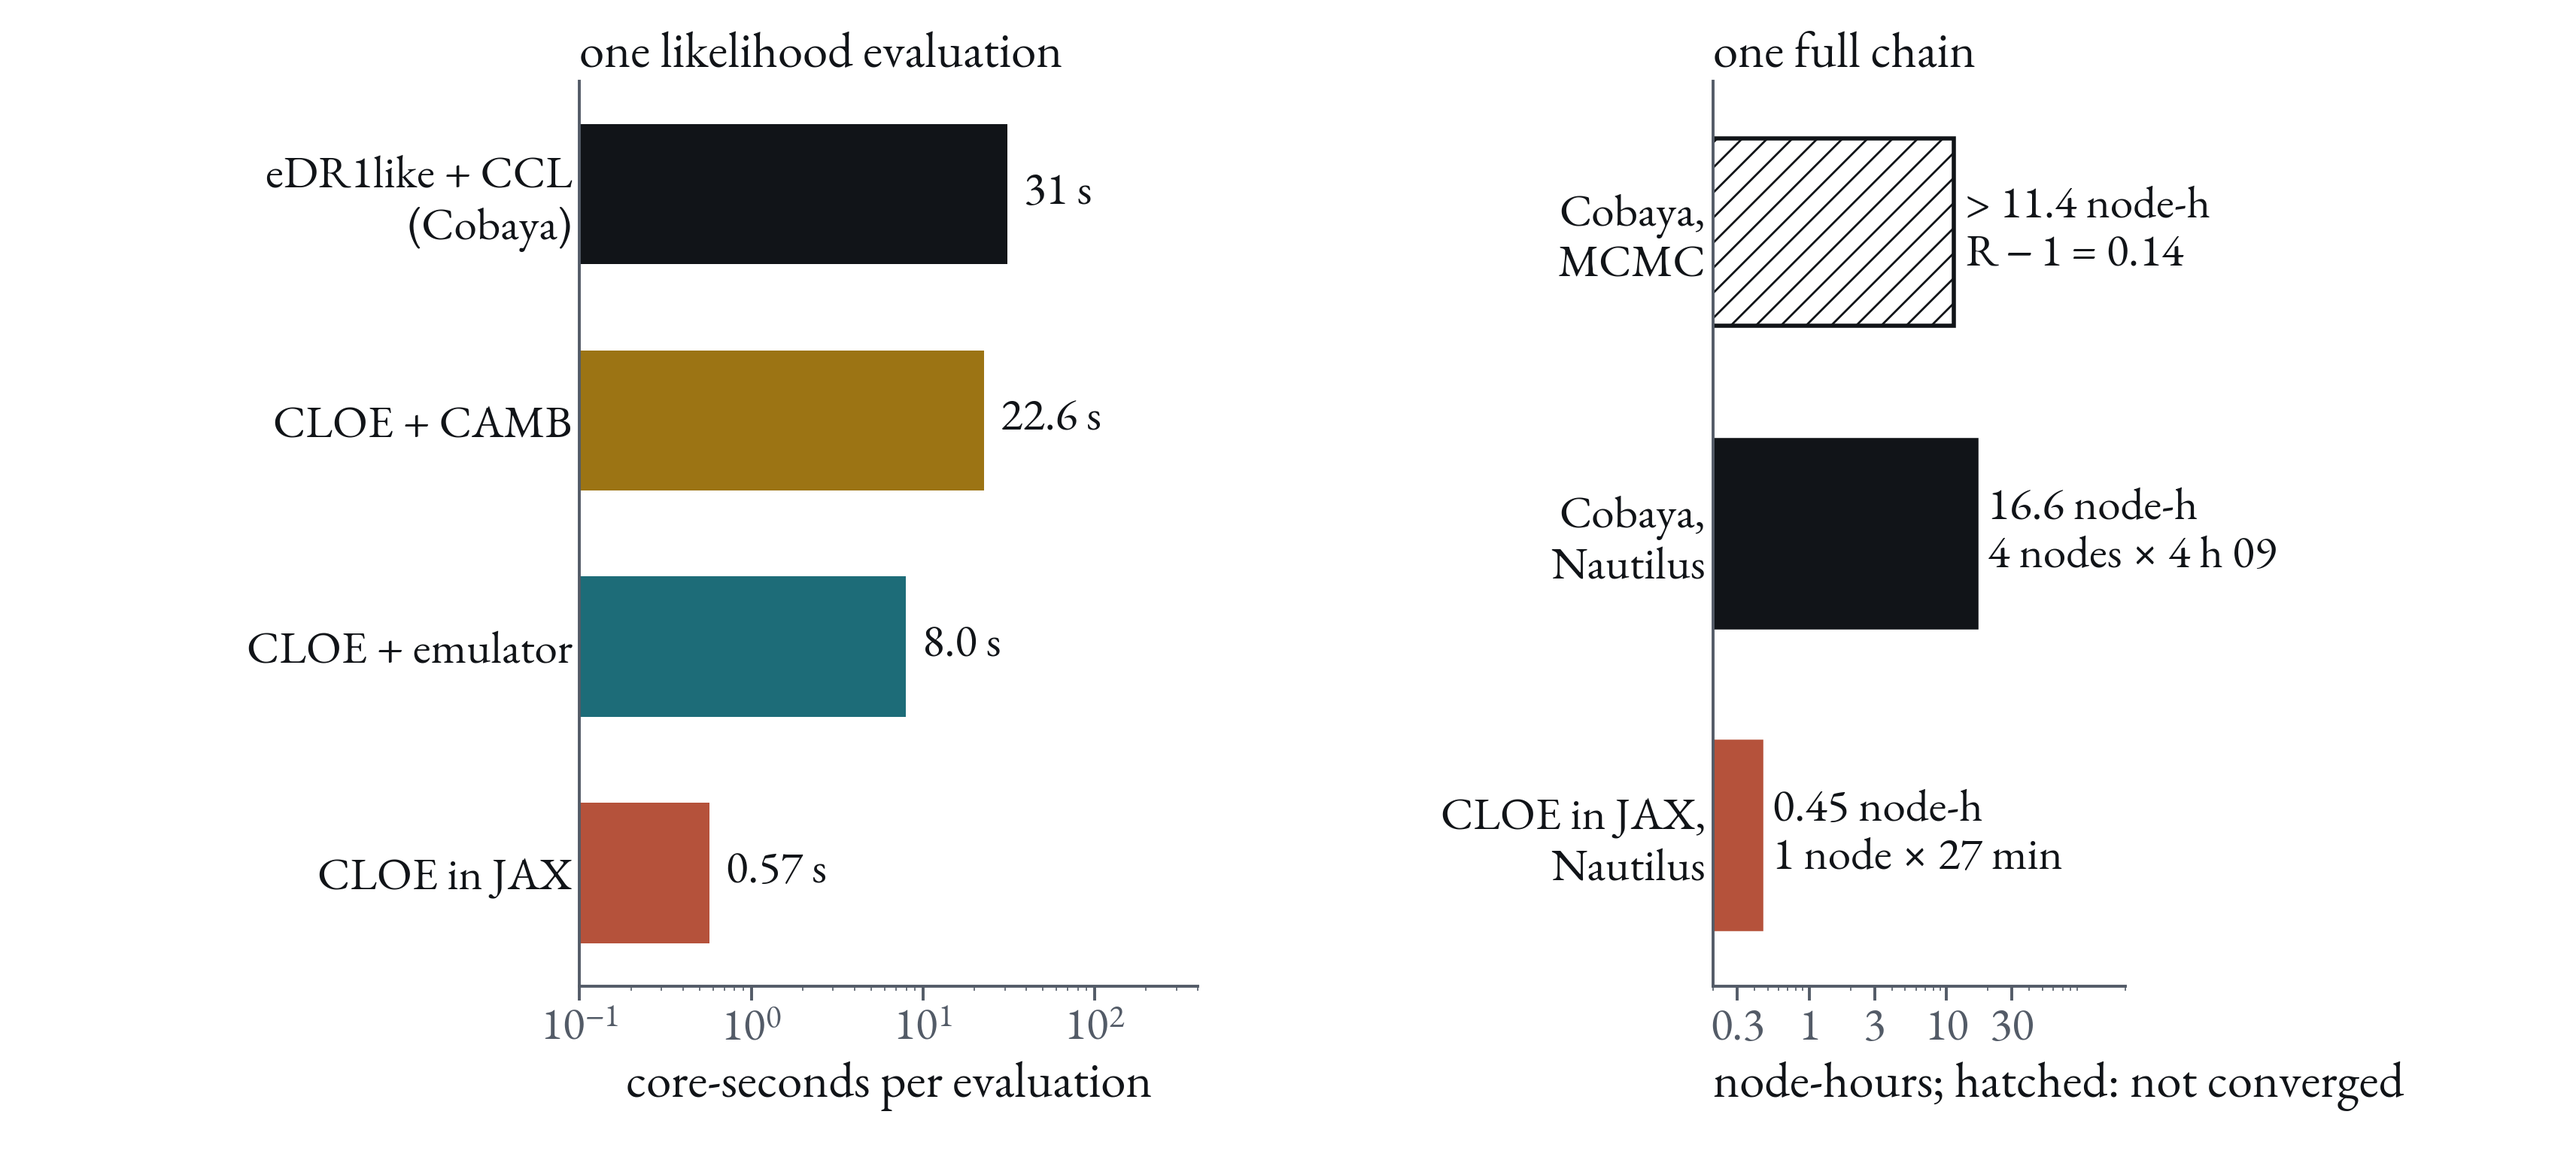
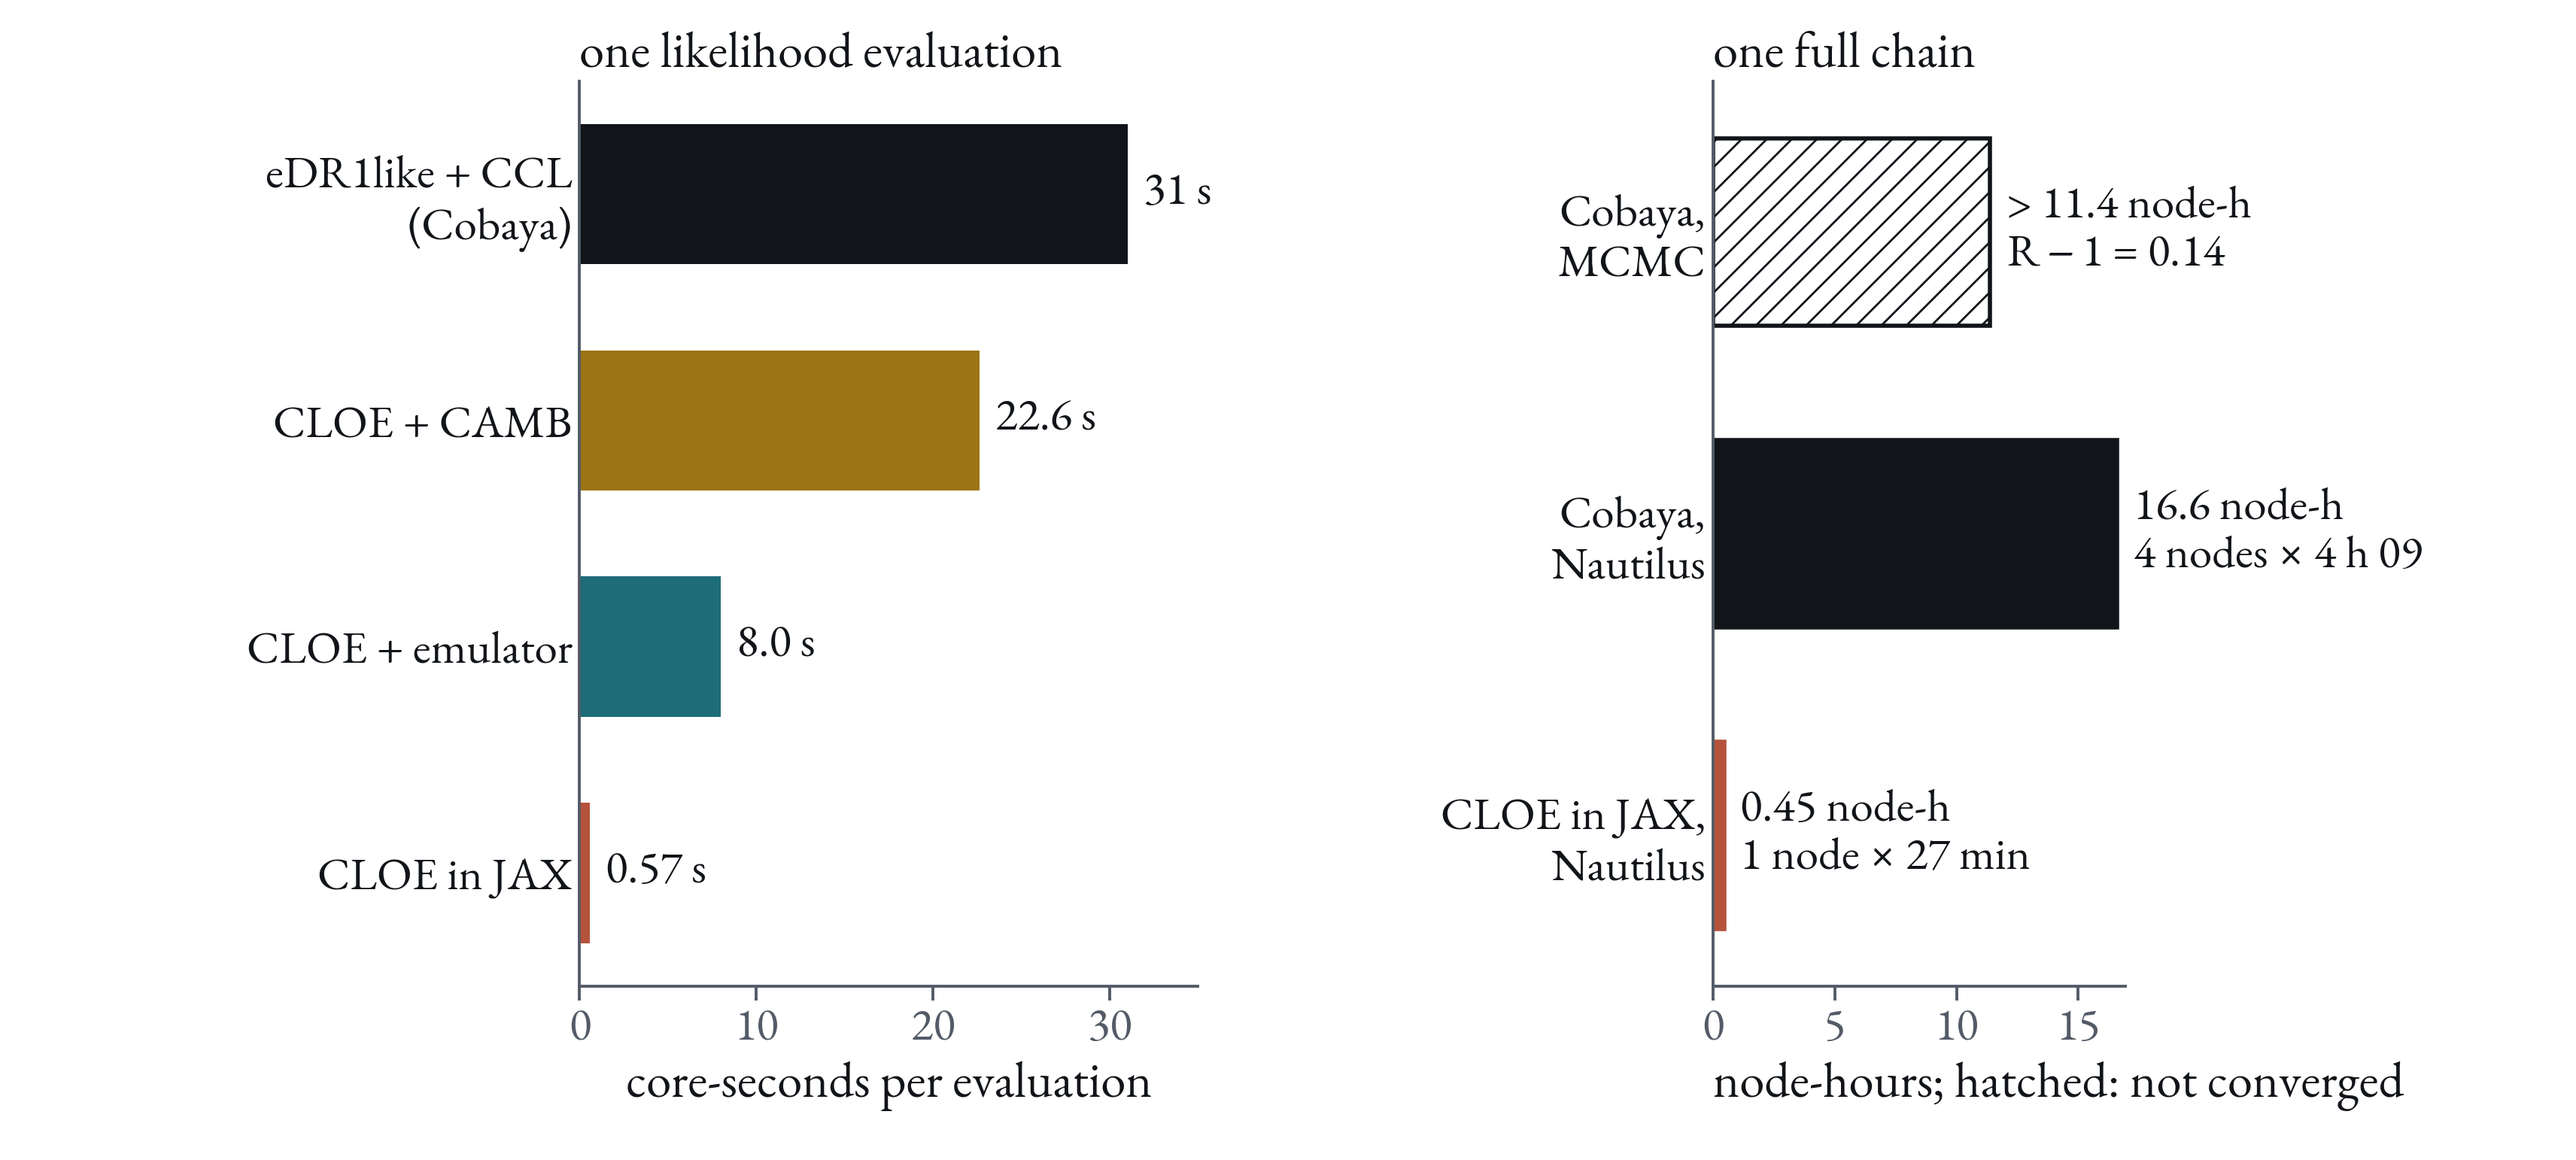
Paris SWG deck: cost slide after the comparison with linear axes; no definite articles in slide titles
Claude-Session: https://claude.ai/code/session_01JK7o9DXfGPZtTDC4WevrY1

diff --git a/2611_Paris_SWG/slides/cloe-anatomy.html b/2611_Paris_SWG/slides/cloe-anatomy.html
@@ -8,7 +8,7 @@
       <li><strong>The loop</strong> — one evaluation goes once around: the sampler proposes a point $\theta$, the theory predicts the data vector $t(\theta)$ there, the likelihood compares it with the data and returns $\ln L$, and the sampler uses it to propose the next point.</li>
       <li><strong>Sampler</strong> — nautilus (nested sampling) draws a point $\theta$ in the 38 sampled parameters of the TR1 data chains (37 on the GLASS mock, where $\log T_\mathrm{AGN}$ is fixed) and receives $\ln L$.</li>
       <li><strong>Likelihood</strong> — Gaussian: $\ln L = -\tfrac12 (d - t)^\mathsf{T} C^{-1} (d - t)$, with $d$ the measured bandpowers and $C$ the production Gaussian + SSC covariance.</li>
-      <li><strong>Theory</strong> — the theory vector $t(\theta)$, in three pieces. The background is the geometry: the expansion rate $H(z)$ and the distances $\chi(z)$ that follow from it. $P(k, z)$ is the structure: how strongly matter is clustered at each scale and each time (CAMB with HMCode, or the emulator). The Limber projection turns the two into what is seen on the sky: for each pair of tracers, an integral along the line of sight, so also back through time, of $P(k, z)$ weighted by where each tracer's signal comes from (the redshift distribution for positions, the lensing efficiency for shear and κ). The result is $C_\ell$, then passed through the bandpower windows.</li>
+      <li><strong>Theory</strong> — the theory vector $t(\theta)$, in three pieces. The background is the geometry: the expansion rate $H(z)$ and the distances $\chi(z)$ that follow from it. $P(k, z)$ is the structure: how strongly matter is clustered at each scale and each time (CAMB with HMCode, or the emulator). The Limber projection turns the two into what is seen on the sky: for each pair of tracers, an integral along the line of sight, so also back through time, of $P(k, z)$ weighted by where each tracer's signal comes from (the redshift distribution for positions, the lensing efficiency for shear and κ). The result is $C_\ell$, then passed through the bandpower windows, which carry the mask's mode coupling.</li>
       <li><strong>Vector</strong> — 5×2pt after scale cuts: shear × shear, shear × positions, positions × positions, κ × shear and κ × positions; 90 pairs, 651 bands. κκ is not included yet.</li>
       <li><strong>Where a likelihood code sits</strong> — the theory and the likelihood levels together are what "Cobaya" (eDR1like with CCL) and "CLOE in JAX" each provide; the sampler is nautilus for both in what follows.</li>
     </ul>

diff --git a/2611_Paris_SWG/slides/cloe-swap.html b/2611_Paris_SWG/slides/cloe-swap.html
@@ -1,5 +1,5 @@
 <section data-layout="figure">
-  <h2>The same chain with two likelihoods</h2>
+  <h2>Same chain with two likelihoods</h2>
   <figure>
     <img src="images/paris26_sketch_swap.png" alt="Sketch: data vector, Gaussian plus SSC covariance, priors and scale cuts, and the nautilus sampler with 2000 live points are listed as the same in both chains; only the theory and likelihood box is swapped. dr1_cmbx (eDR1like + CCL in Cobaya) computes the background and the Limber projection with CCL, P(k) with CAMB HMCode-2020, and scores with eDR1like. CLOE in JAX (CLOElib 0.11, no Cobaya) computes the background and the Limber projection with CLOElib, P(k) with the HMCode-2020 emulator, and scores with a Gaussian chi-squared in JAX">
   </figure>

diff --git a/2611_Paris_SWG/slides/cov-control-variates.html b/2611_Paris_SWG/slides/cov-control-variates.html
@@ -1,5 +1,5 @@
 <section data-layout="figure-text" data-split="60">
-  <h2>Control variates for the covariance</h2>
+  <h2>Control variates for SPT covariance</h2>
   <figure>
     <img src="images/paris26_sketch_control_variates.png" alt="Sketch of a control-variate (CARPool) covariance. Left, few and accurate: SPT-constrained mocks, N of about 350 to 400, each y made with SPT's reconstruction and drawn beside a mock c of the same sky made with a generic reconstruction; rho is the correlation between the two members of a pair. Right, many and approximate: SPT-like mocks, any number M, the same generic reconstruction">
   </figure>

diff --git a/2611_Paris_SWG/slides/cloe-selections.html b/2611_Paris_SWG/slides/cloe-selections.html
@@ -1,5 +1,5 @@
 <section data-layout="figure">
-  <h2>3×2pt and the κ crosses on the GLASS mock</h2>
+  <h2>3×2pt and κ crosses on a GLASS mock</h2>
   <figure>
     <img src="images/paris26_cloe_selections.png" alt="Left: 68 and 95 per cent contours of S8 and Omega_m on the GLASS mock for three selections of the data vector, 3×2pt plus κ crosses, 3×2pt alone and the κ crosses alone, with the mock input marked. Right: S8 mean and one-sigma for each, 0.824 ± 0.013, 0.823 ± 0.013 and 0.812 ± 0.033, against the mock input 0.825">
   </figure>

diff --git a/2611_Paris_SWG/slides/kappa.html b/2611_Paris_SWG/slides/kappa.html
@@ -1,5 +1,5 @@
 <section data-layout="points">
-  <h2>Should κκ be blinded with the crosses?</h2>
+  <h2>Should κκ be blinded with its crosses?</h2>
   <ul>
     <li><strong>For</strong>: one shift on every spectrum keeps the likelihood consistent</li>
     <li>An unshifted κκ would point to the shift's direction</li>

diff --git a/2611_Paris_SWG/slides/cloe-next.html b/2611_Paris_SWG/slides/cloe-next.html
@@ -1,5 +1,5 @@
 <section data-layout="points">
-  <h2>What the CLOE likelihood still needs</h2>
+  <h2>What this CLOE likelihood still needs</h2>
   <ul>
     <li>κκ: a term wrapping SPT's candl likelihood is designed but not built</li>
     <li>Planck and ACT κκ as external likelihoods (?)</li>

diff --git a/2611_Paris_SWG/slides/cloe-cobaya.html b/2611_Paris_SWG/slides/cloe-cobaya.html
@@ -1,5 +1,5 @@
 <section data-layout="points">
-  <h2>The Q1 analysis gave me working Cobaya chains</h2>
+  <h2>Q1 analysis gave me working Cobaya chains</h2>
   <ul>
     <li>eDR1like: the Cobaya likelihood of the Q1 analysis</li>
     <li>Extended to weak lensing by Luca and Louis</li>

diff --git a/2611_Paris_SWG/make_cloe_figures.py b/2611_Paris_SWG/make_cloe_figures.py
@@ -192,15 +192,16 @@ def fig_cost():
           f"R-1 = {mcmc['Rminus1']:.3f}; ratio {cob_nh / jax_nh:.0f}", flush=True)
     fig = new_fig()
     ax = fig.add_axes([0.225, 0.15, 0.24, 0.78])
-    rows = [("eDR1like + CCL\n(Cobaya)", cob["eval_s_median"], REF_C, None), ("CLOE + CAMB", t["camb_median_s"], OCHRE, None),
-            ("CLOE + emulator", t["cpj_median_s"], TEAL, None), ("CLOE in JAX", jax_eval, JAX_C, None)]
-    for i, (lab, v, c, txt) in enumerate(rows):
+    rows = [("eDR1like + CCL\n(Cobaya)", cob["eval_s_median"], REF_C), ("CLOE + CAMB", t["camb_median_s"], OCHRE),
+            ("CLOE + emulator", t["cpj_median_s"], TEAL), ("CLOE in JAX", jax_eval, JAX_C)]
+    for i, (lab, v, c) in enumerate(rows):
         ax.barh(i, v, color=c, height=0.62)
-        ax.text(v * 1.25, i, txt or (f"{v:.2f} s" if v < 1 else f"{v:.1f} s" if v < 30 else f"{v:.0f} s"), va="center", fontsize=TICK, color=INK)
+        ax.text(v + 0.9, i, f"{v:.2f} s" if v < 1 else f"{v:.1f} s" if v < 30 else f"{v:.0f} s", va="center",
+                fontsize=TICK, color=INK)
     ax.set_yticks(range(len(rows)), [r[0] for r in rows])
     ax.tick_params(axis="y", length=0, labelsize=TICK, labelcolor=INK)
-    ax.set_xscale("log")
-    ax.set_xlim(0.1, 400)
+    ax.set_xlim(0, 35)
+    ax.set_xticks([0, 10, 20, 30])
     ax.set_ylim(len(rows) - 0.5, -0.5)
     ax.set_xlabel("core-seconds per evaluation")
     ax.set_title("one likelihood evaluation", fontsize=LABEL, color=INK, loc="left")
@@ -212,14 +213,14 @@ def fig_cost():
                else f"> {mcmc['node_h']:.1f} node-h\n$R-1$ = {mcmc['Rminus1']:.2f}"),
               ("Cobaya,\nNautilus", cob_nh, REF_C, False, f"{cob_nh:.1f} node-h\n4 nodes × 4 h 09"),
               ("CLOE in JAX,\nNautilus", jax_nh, JAX_C, False, f"{jax_nh:.2f} node-h\n1 node × 27 min")]
+    top = max(c[1] for c in chains)
     for i, (lab, v, c, open_, txt) in enumerate(chains):
         ax.barh(i, v, color="white" if open_ else c, edgecolor=c, hatch="//" if open_ else None, lw=2, height=0.62)
-        ax.text(v * 1.2, i, txt, va="center", fontsize=TICK, color=INK, linespacing=1.1)
+        ax.text(v + 0.04 * top, i, txt, va="center", fontsize=TICK, color=INK, linespacing=1.1)
     ax.set_yticks(range(len(chains)), [c[0] for c in chains])
     ax.tick_params(axis="y", length=0, labelsize=TICK, labelcolor=INK)
-    ax.set_xscale("log")
-    ax.set_xlim(0.2, 200)
-    ax.set_xticks([0.3, 1, 3, 10, 30], ["0.3", "1", "3", "10", "30"])
+    ax.set_xlim(0, 1.02 * top)
+    ax.set_xticks(range(0, int(top) + 1, 5 if top < 21 else 10))
     ax.set_ylim(len(chains) - 0.5, -0.5)
     ax.set_xlabel("node-hours" + ("" if done else "; hatched: not converged"), loc="left")
     ax.set_title("one full chain", fontsize=LABEL, color=INK, loc="left")
